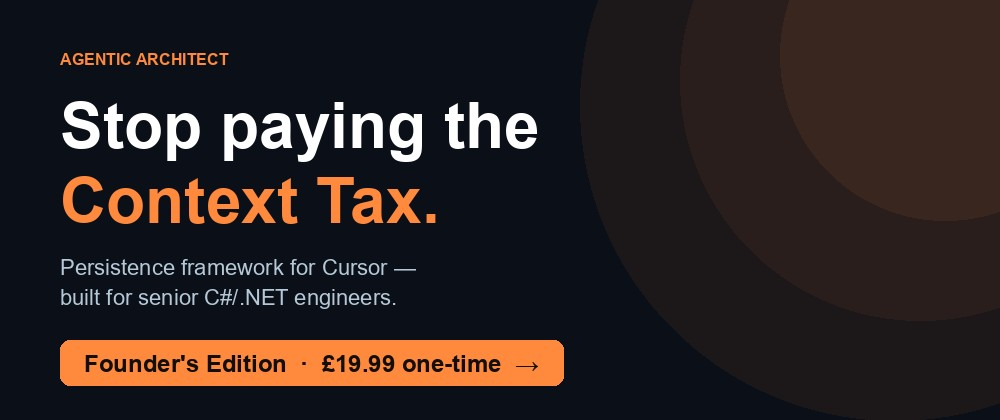
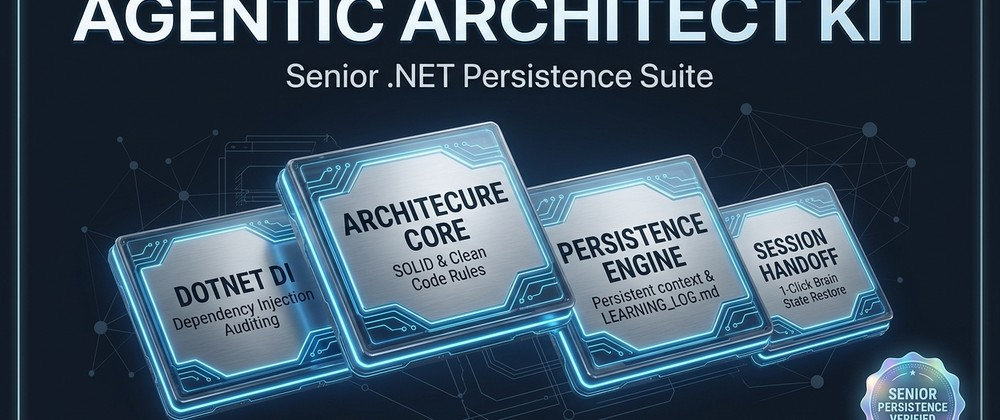
Use AI Kit Main art for dev.to covers and sync existing posts.
Replace the generated £19.99 cover with assets/ai-kit-main.png, and add a workflow to refresh main_image on all dev.to articles after the JPEG updates on GitHub Pages.

diff --git a/scripts/make-devto-cover.py b/scripts/make-devto-cover.py
@@ -1,97 +1,38 @@
-"""Generate a dev.to-sized cover image (1000x420) that fits their aspect ratio.
+"""Generate dev.to cover image (1000x420) from the kit marketing art.
 
 Run from repo root:
     python scripts/make-devto-cover.py
 
-Outputs: og-image-devto.jpg
+Source: assets/ai-kit-main.png
+Outputs: og-image-devto.jpg (used by devto-draft.yml and devto-weekly-digest.yml)
 """
-import os
-from PIL import Image, ImageDraw, ImageFont
+from pathlib import Path
+
+from PIL import Image
 
 W, H = 1000, 420
-BG = (11, 15, 23)         # #0b0f17 — site dark navy
-ORANGE = (255, 138, 61)   # #ff8a3d — brand accent
-WHITE = (255, 255, 255)
-MUTED = (180, 200, 215)
-BTN_TEXT = (20, 14, 8)
+REPO_ROOT = Path(__file__).resolve().parent.parent
+SOURCE = REPO_ROOT / "assets" / "ai-kit-main.png"
+OUT = REPO_ROOT / "og-image-devto.jpg"
 
 
-def find_font(candidates, size):
-    for path in candidates:
-        if os.path.exists(path):
-            return ImageFont.truetype(path, size)
-    return ImageFont.load_default()
+def fit_cover(img: Image.Image, width: int, height: int) -> Image.Image:
+    """Center-crop resize so the frame is filled (dev.to 1000x420)."""
+    img = img.convert("RGBA")
+    src_w, src_h = img.size
+    scale = max(width / src_w, height / src_h)
+    resized = img.resize((int(src_w * scale), int(src_h * scale)), Image.LANCZOS)
+    left = (resized.width - width) // 2
+    top = (resized.height - height) // 2
+    return resized.crop((left, top, left + width, top + height))
 
 
 def main():
-    img = Image.new("RGBA", (W, H), BG + (255,))
-
-    # Soft orange glow in the top-right (mimics the existing OG image styling)
-    overlay = Image.new("RGBA", (W, H), (0, 0, 0, 0))
-    od = ImageDraw.Draw(overlay)
-    for r, a in [(420, 18), (320, 32), (220, 48)]:
-        od.ellipse((W - r, -r // 2, W + r // 2, r), fill=(255, 138, 61, a))
-    img = Image.alpha_composite(img, overlay)
-
-    # Subtle horizontal accent line (under the headline)
-    draw = ImageDraw.Draw(img)
-
-    bold = [r"C:\Windows\Fonts\arialbd.ttf", r"C:\Windows\Fonts\segoeuib.ttf"]
-    regular = [r"C:\Windows\Fonts\arial.ttf", r"C:\Windows\Fonts\segoeui.ttf"]
-
-    font_headline = find_font(bold, 64)
-    font_body = find_font(regular, 22)
-    font_button = find_font(bold, 24)
-    font_kicker = find_font(bold, 16)
-
-    # Kicker
-    draw.text((60, 50), "AGENTIC ARCHITECT", font=font_kicker, fill=ORANGE, spacing=4)
-
-    # Headline — two lines
-    draw.text((60, 90), "Stop paying the", font=font_headline, fill=WHITE)
-    draw.text((60, 165), "Context Tax.", font=font_headline, fill=ORANGE)
-
-    # Subtitle
-    draw.text(
-        (60, 255),
-        "Persistence framework for Cursor —",
-        font=font_body,
-        fill=MUTED,
-    )
-    draw.text(
-        (60, 285),
-        "built for senior C#/.NET engineers.",
-        font=font_body,
-        fill=MUTED,
-    )
-
-    # CTA pill — Founder's Edition £9.00
-    btn_label = "Founder's Edition  ·  £9.00 one-time  →"
-    bbox = draw.textbbox((0, 0), btn_label, font=font_button)
-    text_w = bbox[2] - bbox[0]
-    text_h = bbox[3] - bbox[1]
-    pad_x, pad_y = 24, 14
-    btn_w = text_w + 2 * pad_x
-    btn_h = text_h + 2 * pad_y
-    btn_x = 60
-    btn_y = 340
-    draw.rounded_rectangle(
-        (btn_x, btn_y, btn_x + btn_w, btn_y + btn_h),
-        radius=10,
-        fill=ORANGE,
-    )
-    draw.text(
-        (btn_x + pad_x, btn_y + pad_y - 4),
-        btn_label,
-        font=font_button,
-        fill=BTN_TEXT,
-    )
-
-    # Convert to RGB and save
-    out = img.convert("RGB")
-    out_path = "og-image-devto.jpg"
-    out.save(out_path, "JPEG", quality=90, optimize=True)
-    print(f"Saved {out_path} ({W}x{H}), {os.path.getsize(out_path)} bytes")
+    if not SOURCE.exists():
+        raise SystemExit(f"Missing cover source: {SOURCE}")
+    cover = fit_cover(Image.open(SOURCE), W, H)
+    cover.convert("RGB").save(OUT, "JPEG", quality=90, optimize=True)
+    print(f"Saved {OUT} from {SOURCE} ({W}x{H}), {OUT.stat().st_size} bytes")
 
 
 if __name__ == "__main__":